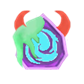
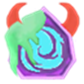
Fixed Echo+0ch0 interaction, updated art, renamed cards

diff --git a/src/main/java/prismaticmod/cards/MetallicRupture.java b/src/main/java/prismaticmod/cards/MetallicRupture.java
@@ -3,13 +3,13 @@ package prismaticmod.cards;
 import com.megacrit.cardcrawl.actions.common.ApplyPowerAction;
 import com.megacrit.cardcrawl.characters.AbstractPlayer;
 import com.megacrit.cardcrawl.monsters.AbstractMonster;
-import com.megacrit.cardcrawl.powers.EvolvePower;
-import com.megacrit.cardcrawl.powers.FireBreathingPower;
+import com.megacrit.cardcrawl.powers.MetallicizePower;
+import com.megacrit.cardcrawl.powers.RupturePower;
 import prismaticmod.util.CardStats;
 import theprismatic.ThePrismatic;
 
-public class FireBreathing2 extends BaseCard {
-    public static final String ID = makeID("Fire Breathing"); //makeID adds the mod ID, so the final ID will be something like "modID:MyCard"
+public class MetallicRupture extends BaseCard {
+    public static final String ID = makeID("Metallic Rupture"); //makeID adds the mod ID, so the final ID will be something like "modID:MyCard"
     private static final CardStats info = new CardStats(
             ThePrismatic.Enums.Red, //The card color. If you're making your own character, it'll look something like this. Otherwise, it'll be CardColor.RED or something similar for a basegame character color.
             CardType.POWER, //The type. ATTACK/SKILL/POWER/CURSE/STATUS
@@ -17,19 +17,21 @@ public class FireBreathing2 extends BaseCard {
             CardTarget.SELF, //The target. Single target is ENEMY, all enemies is ALL_ENEMY. Look at cards similar to what you want to see what to use.
             1 //The card's base cost. -1 is X cost, -2 is no cost for unplayable cards like curses, or Reflex.
     );
+    private static final int baseMagicNumber = 3;
+    private static final int UPG_Number = 1;
+    private static final int baseStrengthNumber = 1;
+    private static final int UPG_Strength = 1;
     //These will be used in the constructor. Technically you can just use the values directly,
     //but constants at the top of the file are easy to adjust.
-    private static final int baseMagicNumber = 1;
-    private static final int UPG_Number = 1;
-
-    public FireBreathing2() {
+    public MetallicRupture() {
         super(ID, info); //Pass the required information to the BaseCard constructor.
         setMagic(baseMagicNumber, UPG_Number);
+        setCustomVar("S", baseStrengthNumber, UPG_Strength);
     }
 
     @Override
     public void use(AbstractPlayer p, AbstractMonster m) {
-        addToBot(new ApplyPowerAction(p, p, new FireBreathingPower(p, 6), 6));
-        addToBot(new ApplyPowerAction(p, p, new EvolvePower(p, magicNumber), magicNumber));
+        addToBot(new ApplyPowerAction(p, p, new MetallicizePower(p, magicNumber), magicNumber));
+        addToBot(new ApplyPowerAction(p, p, new RupturePower(p, customVar("S")), customVar("S")));
     }
 }

diff --git a/src/main/java/prismaticmod/cards/FieryEvolution.java b/src/main/java/prismaticmod/cards/FieryEvolution.java
@@ -3,13 +3,13 @@ package prismaticmod.cards;
 import com.megacrit.cardcrawl.actions.common.ApplyPowerAction;
 import com.megacrit.cardcrawl.characters.AbstractPlayer;
 import com.megacrit.cardcrawl.monsters.AbstractMonster;
-import com.megacrit.cardcrawl.powers.MetallicizePower;
-import com.megacrit.cardcrawl.powers.RupturePower;
+import com.megacrit.cardcrawl.powers.EvolvePower;
+import com.megacrit.cardcrawl.powers.FireBreathingPower;
 import prismaticmod.util.CardStats;
 import theprismatic.ThePrismatic;
 
-public class Rupture2 extends BaseCard {
-    public static final String ID = makeID("Rupture"); //makeID adds the mod ID, so the final ID will be something like "modID:MyCard"
+public class FieryEvolution extends BaseCard {
+    public static final String ID = makeID("Fiery Evolution"); //makeID adds the mod ID, so the final ID will be something like "modID:MyCard"
     private static final CardStats info = new CardStats(
             ThePrismatic.Enums.Red, //The card color. If you're making your own character, it'll look something like this. Otherwise, it'll be CardColor.RED or something similar for a basegame character color.
             CardType.POWER, //The type. ATTACK/SKILL/POWER/CURSE/STATUS
@@ -17,21 +17,19 @@ public class Rupture2 extends BaseCard {
             CardTarget.SELF, //The target. Single target is ENEMY, all enemies is ALL_ENEMY. Look at cards similar to what you want to see what to use.
             1 //The card's base cost. -1 is X cost, -2 is no cost for unplayable cards like curses, or Reflex.
     );
-    private static final int baseMagicNumber = 3;
-    private static final int UPG_Number = 1;
-    private static final int baseStrengthNumber = 1;
-    private static final int UPG_Strength = 1;
     //These will be used in the constructor. Technically you can just use the values directly,
     //but constants at the top of the file are easy to adjust.
-    public Rupture2() {
+    private static final int baseMagicNumber = 1;
+    private static final int UPG_Number = 1;
+
+    public FieryEvolution() {
         super(ID, info); //Pass the required information to the BaseCard constructor.
         setMagic(baseMagicNumber, UPG_Number);
-        setCustomVar("S", baseStrengthNumber, UPG_Strength);
     }
 
     @Override
     public void use(AbstractPlayer p, AbstractMonster m) {
-        addToBot(new ApplyPowerAction(p, p, new MetallicizePower(p, magicNumber), magicNumber));
-        addToBot(new ApplyPowerAction(p, p, new RupturePower(p, customVar("S")), customVar("S")));
+        addToBot(new ApplyPowerAction(p, p, new FireBreathingPower(p, 6), 6));
+        addToBot(new ApplyPowerAction(p, p, new EvolvePower(p, magicNumber), magicNumber));
     }
 }

diff --git a/src/main/java/prismaticmod/powers/Echo2Power.java b/src/main/java/prismaticmod/powers/Echo2Power.java
@@ -7,17 +7,16 @@ import com.megacrit.cardcrawl.core.Settings;
 import com.megacrit.cardcrawl.dungeons.AbstractDungeon;
 import com.megacrit.cardcrawl.monsters.AbstractMonster;
 import com.megacrit.cardcrawl.powers.AbstractPower;
-import com.megacrit.cardcrawl.powers.watcher.FreeAttackPower;
 
 import static com.megacrit.cardcrawl.dungeons.AbstractDungeon.player;
 import static prismaticmod.BasicMod.makeID;
 
-public class OchoPower extends BasePower {
+public class Echo2Power extends BasePower {
 
-    public static final String ID = makeID("0ch0 F0rm");
+    public static final String ID = makeID("Echo Form");
     private int cardsDoubledThisTurn = 0;
 
-    public OchoPower(int amount) {
+    public Echo2Power(int amount) {
         super(ID, PowerType.BUFF, false, player, player, amount, true);
         this.amount = amount;
     }
@@ -35,25 +34,16 @@ public class OchoPower extends BasePower {
 
     @Override
     public void onInitialApplication() {
-        for(AbstractCard c : AbstractDungeon.actionManager.cardsPlayedThisTurn){
-            if((c.costForTurn == 0 || (c.freeToPlayOnce && c.cost != -1))){
-                cardsDoubledThisTurn++;
-            }
-        }
+        this.cardsDoubledThisTurn = AbstractDungeon.actionManager.cardsPlayedThisTurn.size();
     }
     public void onApplyPower(AbstractPower power, AbstractCreature target, AbstractCreature source) {
-        if(power instanceof OchoPower){
-            for(AbstractCard c : AbstractDungeon.actionManager.cardsPlayedThisTurn){
-                if((c.costForTurn == 0 || (c.freeToPlayOnce && c.cost != -1))){
-                    cardsDoubledThisTurn++;
-                }
-            }
+        if(power instanceof Echo2Power){
+            this.cardsDoubledThisTurn = AbstractDungeon.actionManager.cardsPlayedThisTurn.size();
         }
     }
 
     public void onUseCard(AbstractCard card, UseCardAction action) {
-        if (!card.purgeOnUse && this.amount > 0 && this.cardsDoubledThisTurn < this.amount &&
-                ((card.costForTurn == 0 || (card.freeToPlayOnce && card.cost != -1)) || player.hasPower(FreeAttackPower.POWER_ID))) {
+        if (!card.purgeOnUse && this.amount > 0 && this.cardsDoubledThisTurn < this.amount) {
             this.cardsDoubledThisTurn++;
             flash();
             AbstractMonster m = null;

diff --git a/src/main/java/prismaticmod/cards/EchoForm2.java b/src/main/java/prismaticmod/cards/EchoForm2.java
@@ -1,0 +1,42 @@
+package prismaticmod.cards;
+
+import com.megacrit.cardcrawl.actions.common.ApplyPowerAction;
+import com.megacrit.cardcrawl.characters.AbstractPlayer;
+import com.megacrit.cardcrawl.monsters.AbstractMonster;
+import prismaticmod.powers.Echo2Power;
+import prismaticmod.util.CardStats;
+import theprismatic.ThePrismatic;
+
+public class EchoForm2 extends BaseCard {
+    public static final String ID = makeID("Echo Form"); //makeID adds the mod ID, so the final ID will be something like "modID:MyCard"
+    private static final CardStats info = new CardStats(
+            ThePrismatic.Enums.Blue, //The card color. If you're making your own character, it'll look something like this. Otherwise, it'll be CardColor.RED or something similar for a basegame character color.
+            CardType.POWER, //The type. ATTACK/SKILL/POWER/CURSE/STATUS
+            CardRarity.RARE, //Rarity. BASIC is for starting cards, then there's COMMON/UNCOMMON/RARE, and then SPECIAL and CURSE. SPECIAL is for cards you only get from events. Curse is for curses, except for special curses like Curse of the Bell and Necronomicurse.
+            CardTarget.SELF, //The target. Single target is ENEMY, all enemies is ALL_ENEMY. Look at cards similar to what you want to see what to use.
+            3 //The card's base cost. -1 is X cost, -2 is no cost for unplayable cards like curses, or Reflex.
+    );
+
+    //These will be used in the constructor. Technically you can just use the values directly,
+    //but constants at the top of the file are easy to adjust.
+    public EchoForm2() {
+        super(ID, info); //Pass the required information to the BaseCard constructor.
+        int baseMagicNumber = 1;
+        int UPG_Number = 0;
+        setMagic(baseMagicNumber, UPG_Number);
+        this.isEthereal = true;
+    }
+
+    @Override
+    public void use(AbstractPlayer p, AbstractMonster m) {
+        addToBot(new ApplyPowerAction(p, p, new Echo2Power(magicNumber), magicNumber));
+    }
+    public void upgrade() {
+        if (!this.upgraded) {
+            this.isEthereal = false;
+            upgradeName();
+            this.rawDescription = cardStrings.UPGRADE_DESCRIPTION;
+            initializeDescription();
+        }
+    }
+}

diff --git a/src/main/java/theprismatic/ThePrismatic.java b/src/main/java/theprismatic/ThePrismatic.java
@@ -114,7 +114,7 @@ public class ThePrismatic extends CustomPlayer {
         tmpPool.add(new Feed());
         tmpPool.add(new FeelNoPain());
         tmpPool.add(new FiendFire());
-        tmpPool.add(new FireBreathing2());
+        tmpPool.add(new FieryEvolution()); //tmpPool.add(new FireBreathing());
         tmpPool.add(new FlameBarrier());
         tmpPool.add(new Flex());
         tmpPool.add(new GhostlyArmor());
@@ -140,7 +140,7 @@ public class ThePrismatic extends CustomPlayer {
         tmpPool.add(new Rampage());
         tmpPool.add(new Reaper());
         tmpPool.add(new RecklessCharge());
-        tmpPool.add(new Rupture2());
+        tmpPool.add(new MetallicRupture());
         //tmpPool.add(new SearingBlow());
         tmpPool.add(new SecondWind());
         tmpPool.add(new SeeingRed());
@@ -256,7 +256,7 @@ public class ThePrismatic extends CustomPlayer {
         tmpPool.add(new DoomWillBloom()); //tmpPool.add(new DoomAndGloom());
         tmpPool.add(new DoubleEnergy());
         tmpPool.add(new Dualcast2());
-        tmpPool.add(new EchoForm());
+        tmpPool.add(new EchoForm2());
         tmpPool.add(new Electrodynamics());
         tmpPool.add(new Fission2());
         tmpPool.add(new ForceField());

diff --git a/src/main/java/prismaticmod/relics/SmallHouse.java b/src/main/java/prismaticmod/relics/SmallHouse.java
@@ -14,13 +14,13 @@ import java.util.Random;
 
 import static prismaticmod.BasicMod.makeID;
 
-public class TinyHouse2 extends BaseRelic {
-    private static final String NAME = "Tiny House"; //The name will be used for determining the image file as well as the ID.
+public class SmallHouse extends BaseRelic {
+    private static final String NAME = "Small House"; //The name will be used for determining the image file as well as the ID.
     public static final String ID = makeID(NAME); //This adds the mod's prefix to the relic ID, resulting in modID:MyRelic
     private static final RelicTier RARITY = RelicTier.BOSS; //The relic's rarity.
     private static final LandingSound SOUND = LandingSound.FLAT; //The sound played when the relic is clicked.
 
-    public TinyHouse2() {
+    public SmallHouse() {
         super(ID, NAME, ThePrismatic.Enums.CARD_COLOR, RARITY, SOUND);
     }
 

diff --git a/src/main/java/prismaticmod/cards/SneakyStrike2.java b/src/main/java/prismaticmod/cards/SneakyStrike2.java
@@ -30,13 +30,10 @@ public class SneakyStrike2 extends BaseCard {
         setDamage(DAMAGE, UPG_DAMAGE); //Sets the card's damage and how much it changes when upgraded.
         tags.add(CardTags.STRIKE);
     }
-    public void atTurnStart(){
-        upgradeBaseCost(this.baseCost);
-    }
     public void triggerOnGlowCheck() {
         this.glowColor = AbstractCard.BLUE_BORDER_GLOW_COLOR.cpy();
         if (GameActionManager.totalDiscardedThisTurn > 0){
-            upgradeBaseCost(0);
+            setCostForTurn(0);
             this.glowColor = AbstractCard.GOLD_BORDER_GLOW_COLOR.cpy();
         }
     }
